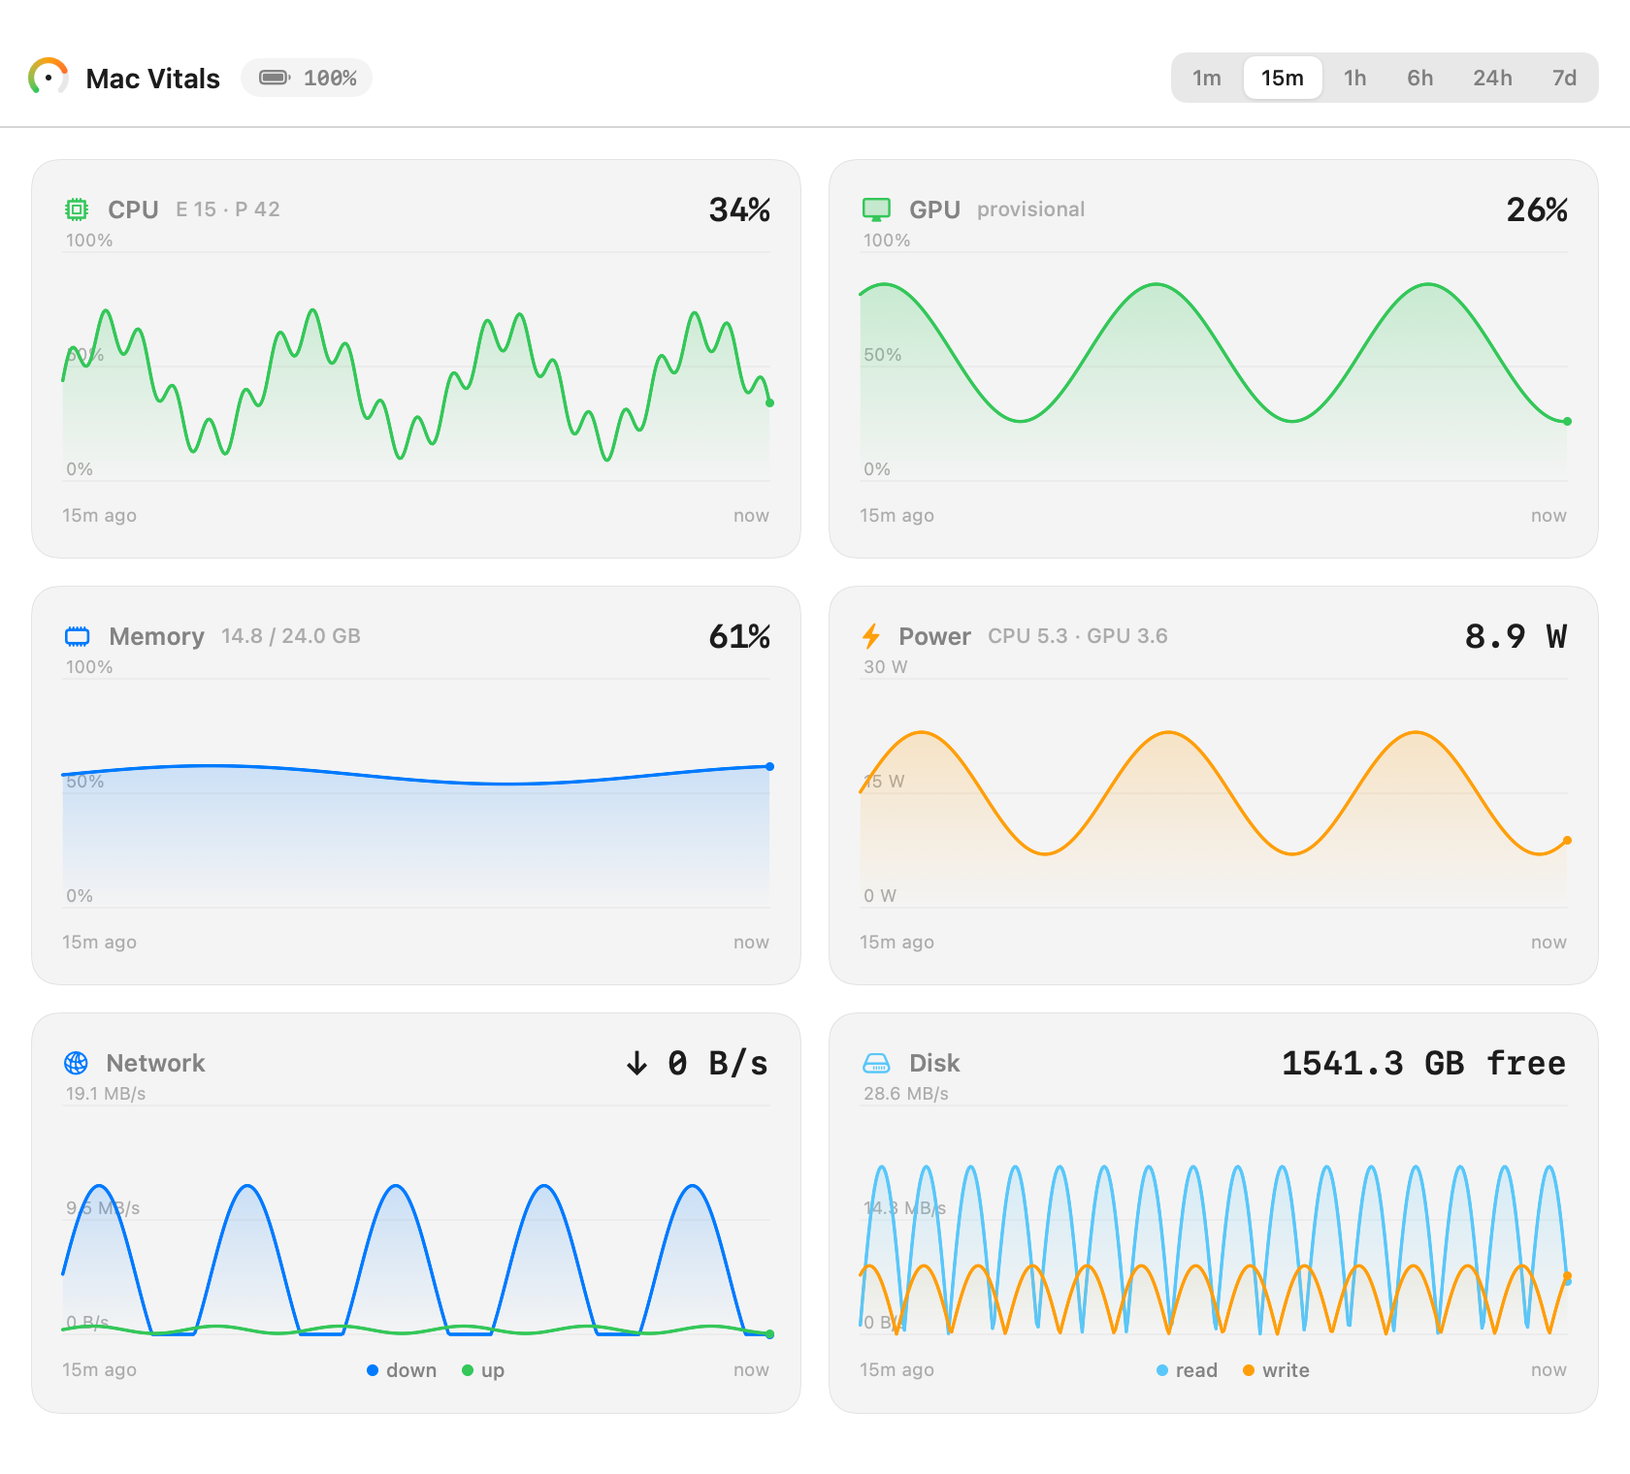
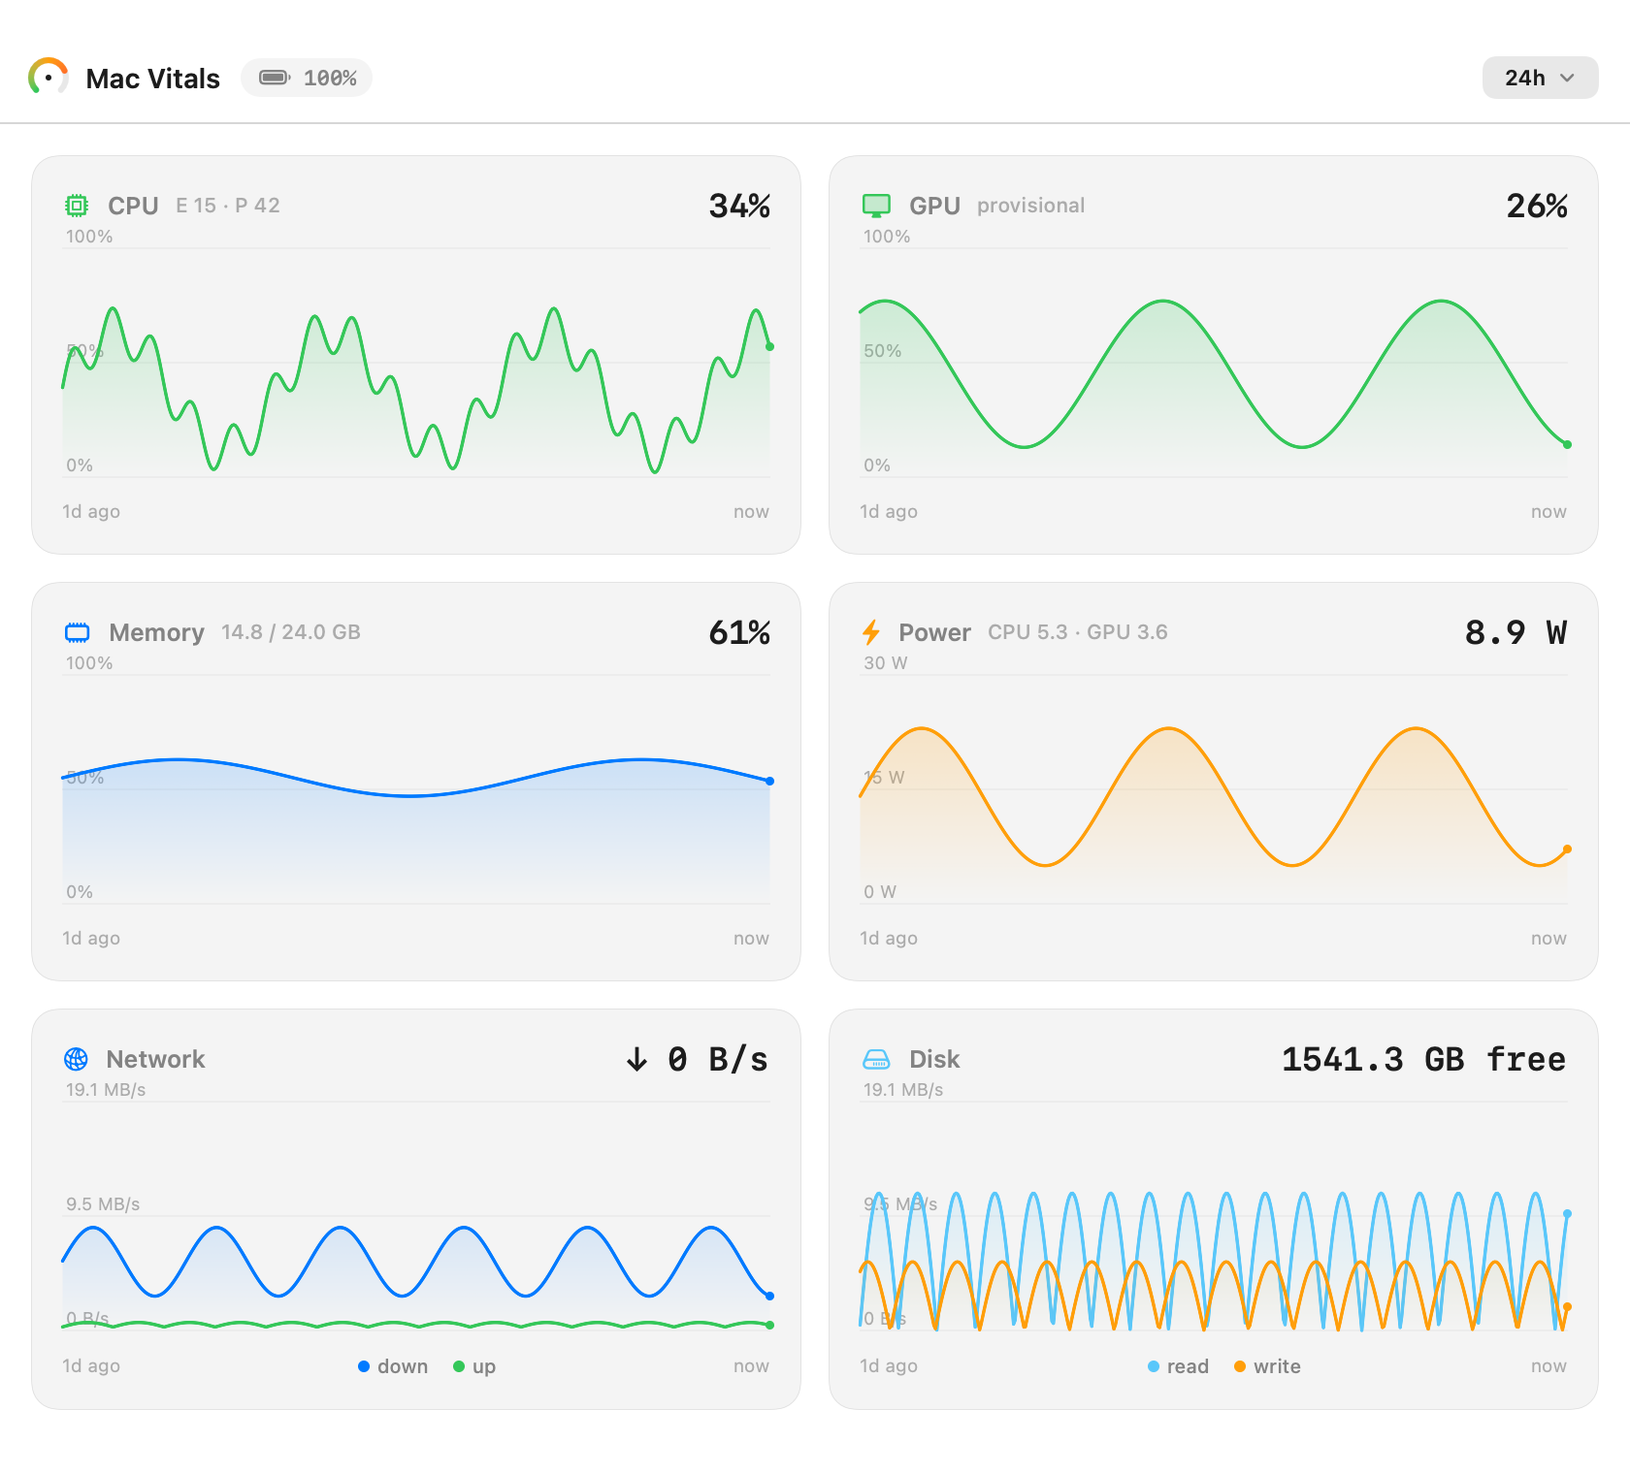
History ranges up to a year, plus year-to-date, via an hourly tier
- Ranges: 1m, 15m, 1h, 6h, 24h, 7d, 15d, 30d, 90d, 180d, 365d, YTD.
- Three resolutions: live 1s in memory (1h); 1-min averages persisted ~8 days;
  1-min rolled into 1-hour averages persisted ~13 months. A few MB total.
- Range picker is now a dropdown (too many ranges for a segmented control);
  it renders cleanly offscreen, so the README shot stays clean.
- MainView selects the tier per range and downsamples for drawing; YTD spans
  from Jan 1.

diff --git a/Sources/MacVitals/MainView.swift b/Sources/MacVitals/MainView.swift
@@ -2,30 +2,53 @@ import SwiftUI
 import VitalsCore
 
 enum HistoryRange: String, CaseIterable, Identifiable {
-    case m1 = "1m", m15 = "15m", h1 = "1h", h6 = "6h", h24 = "24h", d7 = "7d"
+    case m1 = "1m", m15 = "15m", h1 = "1h", h6 = "6h", h24 = "24h"
+    case d7 = "7d", d15 = "15d", d30 = "30d", d90 = "90d", d180 = "180d", d365 = "365d", ytd = "YTD"
+
     var seconds: TimeInterval {
         switch self {
-        case .m1: 60; case .m15: 900; case .h1: 3600
-        case .h6: 21_600; case .h24: 86_400; case .d7: 604_800
+        case .m1: 60; case .m15: 900; case .h1: 3600; case .h6: 21_600; case .h24: 86_400
+        case .d7: 7 * 86_400; case .d15: 15 * 86_400; case .d30: 30 * 86_400
+        case .d90: 90 * 86_400; case .d180: 180 * 86_400; case .d365: 365 * 86_400
+        case .ytd: max(3600, Date().timeIntervalSince(Self.startOfYear))
         }
     }
-    /// Ranges past an hour read the persisted minute samples; shorter ranges use
-    /// the live 1-second history.
-    var usesMinutes: Bool { seconds > 3600 }
+
+    enum Tier { case live, minutes, hours }
+    /// Which stored resolution answers this range.
+    var tier: Tier {
+        if seconds <= 3600 { return .live }
+        if seconds <= 7 * 86_400 { return .minutes }
+        return .hours
+    }
+
+    var name: String {
+        switch self {
+        case .m1: "1 minute"; case .m15: "15 minutes"; case .h1: "1 hour"; case .h6: "6 hours"
+        case .h24: "24 hours"; case .d7: "7 days"; case .d15: "15 days"; case .d30: "30 days"
+        case .d90: "90 days"; case .d180: "180 days"; case .d365: "365 days"; case .ytd: "Year to date"
+        }
+    }
+
     var id: String { rawValue }
+    static var startOfYear: Date {
+        let c = Calendar.current
+        return c.date(from: c.dateComponents([.year], from: Date())) ?? Date()
+    }
 }
 
 /// The full window: every metric as a time-series chart over a selectable range,
-/// from one minute of live detail to seven days of persisted history.
+/// from one minute of live detail to a full year of persisted history.
 struct MainView: View {
     @ObservedObject var store: SampleStore
     @State private var range: HistoryRange
+    @State private var rangeMenu = false
     var scrolls: Bool
 
     private let readTeal = Palette.teal
     private let writeOrange = Palette.orange
 
-    init(store: SampleStore, scrolls: Bool = true, initialRange: HistoryRange = .m15) {
+    init(store: SampleStore, scrolls: Bool = true, initialRange: HistoryRange = .h24) {
         _store = ObservedObject(wrappedValue: store)
         self.scrolls = scrolls
         _range = State(initialValue: initialRange)
@@ -67,25 +90,40 @@ struct MainView: View {
     }
 
     private var rangeControl: some View {
-        HStack(spacing: 2) {
-            ForEach(HistoryRange.allCases) { r in
-                Text(r.rawValue)
-                    .font(.system(size: 11, weight: .medium))
-                    .foregroundStyle(range == r ? Palette.ink : Palette.ink2)
-                    .padding(.vertical, 4).padding(.horizontal, 9)
-                    .background {
-                        if range == r {
-                            RoundedRectangle(cornerRadius: 6, style: .continuous)
-                                .fill(Color(nsColor: .controlBackgroundColor))
-                                .shadow(color: .black.opacity(0.12), radius: 1, y: 0.5)
-                        }
-                    }
-                    .contentShape(Rectangle())
-                    .onTapGesture { range = r }
+        Button { rangeMenu.toggle() } label: {
+            HStack(spacing: 6) {
+                Text(range.rawValue).font(.system(size: 11, weight: .semibold)).foregroundStyle(Palette.ink)
+                Image(systemName: "chevron.down").font(.system(size: 8, weight: .bold)).foregroundStyle(Palette.ink2)
             }
+            .frame(minWidth: 40)
+            .padding(.vertical, 4).padding(.horizontal, 10)
+            .background(RoundedRectangle(cornerRadius: 7, style: .continuous).fill(Palette.track))
         }
-        .padding(2)
-        .background(RoundedRectangle(cornerRadius: 8, style: .continuous).fill(Palette.track))
+        .buttonStyle(.plain)
+        .popover(isPresented: $rangeMenu, arrowEdge: .bottom) {
+            VStack(alignment: .leading, spacing: 1) {
+                ForEach(HistoryRange.allCases) { r in
+                    Button {
+                        range = r; rangeMenu = false
+                    } label: {
+                        HStack(spacing: 10) {
+                            Text(r.name).font(.system(size: 12))
+                            Spacer()
+                            if r == range {
+                                Image(systemName: "checkmark").font(.system(size: 10, weight: .semibold))
+                                    .foregroundStyle(Palette.blue)
+                            }
+                        }
+                        .foregroundStyle(Palette.ink)
+                        .padding(.vertical, 5).padding(.horizontal, 10)
+                        .frame(width: 156, alignment: .leading)
+                        .contentShape(Rectangle())
+                    }
+                    .buttonStyle(.plain)
+                }
+            }
+            .padding(6)
+        }
     }
 
     @ViewBuilder private var batteryPill: some View {
@@ -104,15 +142,18 @@ struct MainView: View {
 
     // MARK: - Data
 
-    /// Points for a metric over the current range, from the right source and
+    /// Points for a metric over the current range, from the right storage tier and
     /// thinned so a long window does not draw tens of thousands of points.
     private func series(_ metric: Metric) -> [(date: Date, value: Double)] {
         let cutoff = Date().addingTimeInterval(-range.seconds)
         let raw: [(Date, Double)]
-        if range.usesMinutes {
-            raw = store.minutes.filter { $0.t >= cutoff }.map { ($0.t, metric.value($0)) }
-        } else {
+        switch range.tier {
+        case .live:
             raw = store.history.filter { $0.timestamp >= cutoff }.map { ($0.timestamp, metric.value($0)) }
+        case .minutes:
+            raw = store.minutes.filter { $0.t >= cutoff }.map { ($0.t, metric.value($0)) }
+        case .hours:
+            raw = store.hours.filter { $0.t >= cutoff }.map { ($0.t, metric.value($0)) }
         }
         return downsample(raw)
     }

diff --git a/Sources/MacVitals/History.swift b/Sources/MacVitals/History.swift
@@ -1,9 +1,9 @@
 import Foundation
 import VitalsCore
 
-/// One minute's average of each metric. Persisted so the long ranges (hours,
-/// days) survive quits and reboots and fill in over time, the way iStat Menus
-/// does it. Live 1-second detail stays in memory for the short ranges.
+/// One aggregated point (a minute's or an hour's average of each metric).
+/// Persisted so the long ranges survive quits and fill in over time. Live
+/// 1-second detail stays in memory for the short ranges.
 struct MinuteSample: Codable {
     var t: Date
     var cpu: Double
@@ -35,10 +35,19 @@ struct MinuteSample: Codable {
         diskRead = avg { $0.disk.readBytesPerSec }
         diskWrite = avg { $0.disk.writeBytesPerSec }
     }
+
+    /// Roll a set of minute samples up into one coarser (hourly) point.
+    init(rollingUp samples: [MinuteSample]) {
+        let n = Double(max(samples.count, 1))
+        func avg(_ f: (MinuteSample) -> Double) -> Double { samples.reduce(0) { $0 + f($1) } / n }
+        t = samples.last?.t ?? Date()
+        cpu = avg(\.cpu); gpu = avg(\.gpu); mem = avg(\.mem); watts = avg(\.watts)
+        netDown = avg(\.netDown); netUp = avg(\.netUp); diskRead = avg(\.diskRead); diskWrite = avg(\.diskWrite)
+    }
 }
 
 /// The metrics a chart can plot, with one extractor per data source so the same
-/// chart reads live snapshots for short ranges and minute samples for long ones.
+/// chart reads live snapshots for short ranges and aggregated samples for long ones.
 enum Metric {
     case cpu, gpu, memory, power, netDown, netUp, diskRead, diskWrite
 
@@ -69,18 +78,19 @@ enum Metric {
     }
 }
 
-/// Append-only NDJSON persistence of minute samples under Application Support.
-/// Loads on launch, appends one line a minute, and prunes to the retention window.
+/// Append-only NDJSON persistence for one resolution tier (minutes or hours).
+/// Loads on launch, appends one line per new sample, and prunes to its retention.
 final class HistoryStore {
     private let url: URL
-    private let retentionMinutes = 30 * 24 * 60 // 30 days
-    private(set) var minutes: [MinuteSample] = []
+    private let retention: Int
+    private(set) var samples: [MinuteSample] = []
 
-    init() {
+    init(filename: String, retention: Int) {
+        self.retention = retention
         let base = FileManager.default.urls(for: .applicationSupportDirectory, in: .userDomainMask).first!
             .appendingPathComponent("MacVitals", isDirectory: true)
         try? FileManager.default.createDirectory(at: base, withIntermediateDirectories: true)
-        url = base.appendingPathComponent("minutes.ndjson")
+        url = base.appendingPathComponent(filename)
         load()
     }
 
@@ -100,18 +110,18 @@ final class HistoryStore {
                 parsed.append(m)
             }
         }
-        if parsed.count > retentionMinutes {
-            parsed = Array(parsed.suffix(retentionMinutes))
-            rewrite(parsed) // compact the file back down
+        if parsed.count > retention {
+            parsed = Array(parsed.suffix(retention))
+            rewrite(parsed)
         }
-        minutes = parsed
+        samples = parsed
     }
 
     func append(_ m: MinuteSample) {
-        minutes.append(m)
-        if minutes.count > retentionMinutes {
-            minutes.removeFirst(minutes.count - retentionMinutes)
-            rewrite(minutes)
+        samples.append(m)
+        if samples.count > retention {
+            samples.removeFirst(samples.count - retention)
+            rewrite(samples)
             return
         }
         guard let data = try? encoder().encode(m) else { return }
@@ -122,7 +132,7 @@ final class HistoryStore {
             _ = try? handle.seekToEnd()
             try? handle.write(contentsOf: line)
         } else {
-            try? line.write(to: url) // first write creates the file
+            try? line.write(to: url)
         }
     }
 

diff --git a/Sources/MacVitals/SampleStore.swift b/Sources/MacVitals/SampleStore.swift
@@ -2,19 +2,23 @@ import Foundation
 import Combine
 import VitalsCore
 
-/// Drives the `Monitor` on a 1 Hz timer. Keeps a live hour of 1-second detail in
-/// memory for the short ranges, and rolls each minute into a persisted average so
-/// the long ranges (6h, 24h, 7d) survive quits and fill in over time.
+/// Drives the `Monitor` on a 1 Hz timer and keeps three resolutions:
+/// live 1-second detail in memory (an hour) for the short ranges, 1-minute
+/// averages persisted for days, and 1-hour averages persisted for a year. The
+/// long ranges read the persisted tiers, so they survive quits and fill over time.
 @MainActor
 final class SampleStore: ObservableObject {
     @Published private(set) var latest: Snapshot = .placeholder
     @Published private(set) var history: [Snapshot] = []
     @Published private(set) var minutes: [MinuteSample] = []
+    @Published private(set) var hours: [MinuteSample] = []
 
     private let monitor = Monitor()
-    private let historyStore: HistoryStore?
+    private let minutesStore: HistoryStore?
+    private let hoursStore: HistoryStore?
     private var timer: Timer?
     private var minuteAccumulator: [Snapshot] = []
+    private var hourAccumulator: [MinuteSample] = []
     private let capacity = 3600 // one hour of 1-second detail
 
     /// Last sixty seconds of each metric, for the small sparklines.
@@ -23,17 +27,21 @@ final class SampleStore: ObservableObject {
     var memHistory: [Double] { history.suffix(60).map(\.memory.usedPercent) }
 
     init() {
-        historyStore = HistoryStore()
-        minutes = historyStore?.minutes ?? []
+        minutesStore = HistoryStore(filename: "minutes.ndjson", retention: 8 * 24 * 60)   // 8 days
+        hoursStore = HistoryStore(filename: "hours.ndjson", retention: 400 * 24)          // ~13 months
+        minutes = minutesStore?.samples ?? []
+        hours = hoursStore?.samples ?? []
         _ = monitor.sample() // prime the delta baseline
         start()
     }
 
     /// Seeded store with no live timer or persistence, for offscreen rendering.
-    init(seed: [Snapshot], minutes: [MinuteSample] = []) {
-        historyStore = nil
+    init(seed: [Snapshot], minutes: [MinuteSample] = [], hours: [MinuteSample] = []) {
+        minutesStore = nil
+        hoursStore = nil
         history = seed
         self.minutes = minutes
+        self.hours = hours
         latest = seed.last ?? .placeholder
     }
 
@@ -56,11 +64,19 @@ final class SampleStore: ObservableObject {
         if history.count > capacity { history.removeFirst(history.count - capacity) }
 
         minuteAccumulator.append(s)
-        if minuteAccumulator.count >= 60 {
-            let sample = MinuteSample(from: minuteAccumulator)
-            minuteAccumulator.removeAll(keepingCapacity: true)
-            historyStore?.append(sample)
-            minutes = historyStore?.minutes ?? (minutes + [sample])
+        guard minuteAccumulator.count >= 60 else { return }
+
+        let minute = MinuteSample(from: minuteAccumulator)
+        minuteAccumulator.removeAll(keepingCapacity: true)
+        minutesStore?.append(minute)
+        minutes = minutesStore?.samples ?? (minutes + [minute])
+
+        hourAccumulator.append(minute)
+        if hourAccumulator.count >= 60 {
+            let hour = MinuteSample(rollingUp: hourAccumulator)
+            hourAccumulator.removeAll(keepingCapacity: true)
+            hoursStore?.append(hour)
+            hours = hoursStore?.samples ?? (hours + [hour])
         }
     }
 }

diff --git a/Sources/MacVitals/RenderTool.swift b/Sources/MacVitals/RenderTool.swift
@@ -5,21 +5,24 @@ import VitalsCore
 /// the README screenshot without a display. Invoked via `MacVitals --render <path>`.
 @MainActor
 enum RenderTool {
-    static func renderMainWindow(to path: String, range: HistoryRange = .m15) {
-        let store = SampleStore(seed: synthetic(), minutes: syntheticMinutes(1440))
+    static func renderMainWindow(to path: String, range: HistoryRange = .h24) {
+        let store = SampleStore(seed: synthetic(),
+                                minutes: syntheticSamples(1440, step: 60),
+                                hours: syntheticSamples(370 * 24, step: 3600))
         let view = MainView(store: store, scrolls: false, initialRange: range).frame(width: 840, height: 760)
         let renderer = ImageRenderer(content: view)
         renderer.scale = 2
         write(renderer, to: path)
     }
 
-    /// A day of plausible minute averages, for rendering the long ranges.
-    static func syntheticMinutes(_ n: Int) -> [MinuteSample] {
+    /// Plausible aggregated samples spaced `step` seconds apart, for rendering the
+    /// minute and hour tiers behind the long ranges.
+    static func syntheticSamples(_ n: Int, step: Double) -> [MinuteSample] {
         let now = Date()
         func clamp(_ v: Double) -> Double { max(0, min(100, v)) }
         return (0..<n).map { i in
             let f = Double(i)
-            let t = now.addingTimeInterval(Double(i - n) * 60)
+            let t = now.addingTimeInterval(Double(i - n) * step)
             return MinuteSample(
                 t: t,
                 cpu: clamp(38 + 26 * sin(f / 70) + 10 * sin(f / 13)),

diff --git a/Sources/MacVitals/MacVitalsApp.swift b/Sources/MacVitals/MacVitalsApp.swift
@@ -44,6 +44,10 @@ final class AppDelegate: NSObject, NSApplicationDelegate {
             RenderTool.renderMainWindow(to: args[i + 1], range: .h24)
             NSApp.terminate(nil)
         }
+        if let i = args.firstIndex(of: "--render-long"), i + 1 < args.count {
+            RenderTool.renderMainWindow(to: args[i + 1], range: .d365)
+            NSApp.terminate(nil)
+        }
         if let i = args.firstIndex(of: "--render"), i + 1 < args.count {
             RenderTool.renderMainWindow(to: args[i + 1])
             NSApp.terminate(nil)

diff --git a/Sources/MacVitals/TimeChart.swift b/Sources/MacVitals/TimeChart.swift
@@ -135,6 +135,7 @@ struct TimeChart: View {
 
     private var spanLabel: String {
         let s = Int(span)
+        if s >= 350 * 86_400 { return "1y ago" }
         if s >= 86_400 { return "\(s / 86_400)d ago" }
         if s >= 3600 { return "\(s / 3600)h ago" }
         return "\(s / 60)m ago"

diff --git a/README.md b/README.md
@@ -34,7 +34,7 @@ It shows up three ways, over one engine:
 - **Memory** used against total, the way Activity Monitor counts it.
 - **Power** in watts, per rail: CPU and GPU, read from the chip's energy counters.
 - **Network, disk, and battery** too: up and down throughput, read and write activity with free space, and charge.
-- **A full window** with every metric charted from the last minute to the last seven days, with history persisted across restarts so the long ranges fill in over time.
+- **A full window** with every metric charted from the last minute to a full year, plus year-to-date, with history persisted across restarts so the long ranges fill in over time.
 - **No password, ever.** Everything comes through Apple's IOReport interface as a normal user.
 - **Zero dependencies.** One Swift package, no runtime, no helper daemon, no kernel extension.
 - **Light and dark**, following the system, on native vibrancy.
@@ -42,7 +42,7 @@ It shows up three ways, over one engine:
 
 ## The full window
 
-Open it from the popover for every metric charted over a selectable range, from one minute of live detail up to seven days. Live seconds stay in memory; one-minute averages persist to disk (about a month of them, a few MB), so the long ranges survive quits and fill in as the app runs.
+Open it from the popover for every metric charted over a selectable range, from one minute of live detail up to a year, plus year-to-date. Three resolutions keep it cheap: live seconds in memory for the short ranges, one-minute averages persisted for about a week, and one-minute samples rolled up into one-hour averages persisted for over a year. All told a few MB, and the long ranges survive quits and fill in as the app runs.
 
 <div align="center">
 <img src="docs/window.png" alt="The Mac Vitals window: CPU, GPU, memory, power, network, and disk charted over the last fifteen minutes" width="840">
@@ -159,7 +159,7 @@ If you want the most features today, `stats` is excellent. Mac Vitals is for peo
 - [x] Menu-bar item and popover
 - [x] Floating widget
 - [x] MCP server
-- [x] Full window with history from 1 minute to 7 days, persisted across restarts
+- [x] Full window with history from 1 minute to 1 year (plus YTD), persisted across restarts
 - [x] Network, disk, and battery
 - [ ] Calibrate GPU percent against `powermetrics` on M-series
 - [ ] **Task traces**: bracket a build or a run and get back what it cost (CPU, GPU, watt-hours), in the app and over MCP
